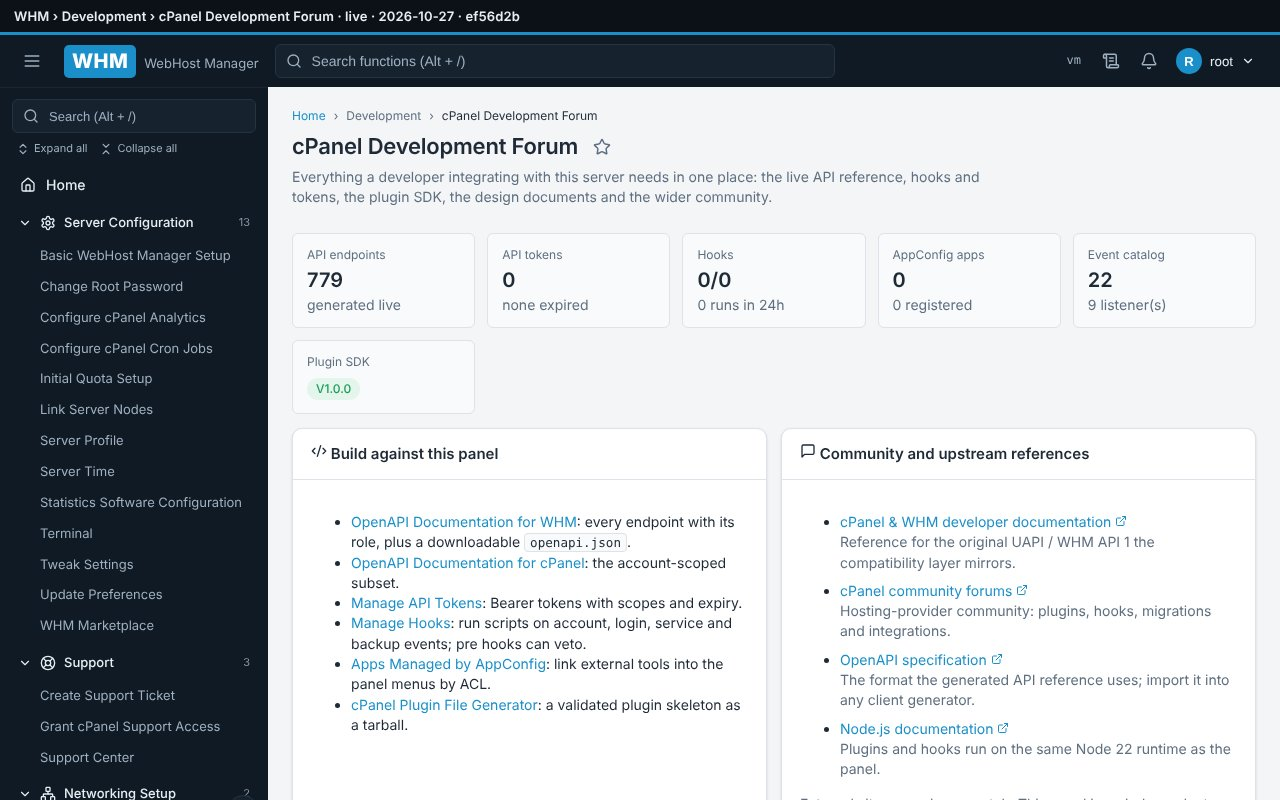
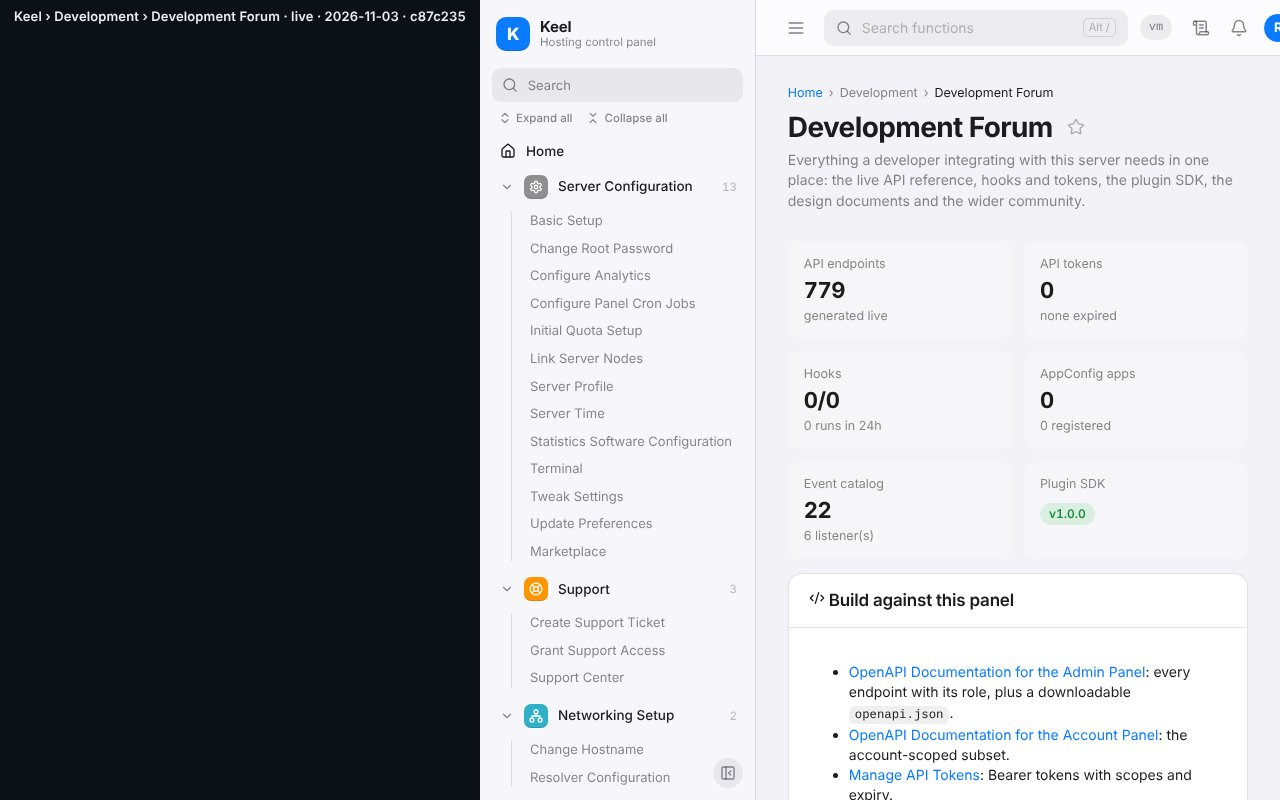
docs(screenshots): refresh all 212 labelled page shots + 17 flow shots on the Keel design system (c87c235)

diff --git a/docs/screenshots/README.md b/docs/screenshots/README.md
@@ -1,6 +1,6 @@
 # Screenshots
 
-Updated 2026-10-27 at commit `ef56d2b`. All images are captured automatically (Playwright) against the built interface served by the API, and each carries a label bar naming the screen, whether it is live or a placeholder, the date and the commit. They are regenerated at every milestone (`e2e/screenshots.sh`).
+Updated 2026-11-03 at commit `c87c235`. All images are captured automatically (Playwright) against the built interface served by the API, and each carries a label bar naming the screen, whether it is live or a placeholder, the date and the commit. They are regenerated at every milestone (`e2e/screenshots.sh`).
 
 - **[Every page →](pages/README.md)** — all 212 function pages grouped by category (212/212 live) plus core pages.
 
@@ -15,7 +15,7 @@ Login → dashboard → creating an account through the form → lists, status p
 <tr><td align="center" valign="top" width="33%"><a href="08-feature-manager.png"><img src="08-feature-manager.png" width="400" alt="Feature Manager"></a><br><sub><b>Feature Manager</b></sub></td><td align="center" valign="top" width="33%"><a href="09-tweak-settings.png"><img src="09-tweak-settings.png" width="400" alt="Tweak Settings"></a><br><sub><b>Tweak Settings</b></sub></td></tr>
 <tr><td align="center" valign="top" width="33%"><a href="10-wp-toolkit-plugin.png"><img src="10-wp-toolkit-plugin.png" width="400" alt="WP Toolkit (bundled plugin page)"></a><br><sub><b>WP Toolkit (bundled plugin page)</b></sub></td><td align="center" valign="top" width="33%"><a href="11-sidebar-search.png"><img src="11-sidebar-search.png" width="400" alt="Sidebar search"></a><br><sub><b>Sidebar search</b></sub></td></tr>
 <tr><td align="center" valign="top" width="33%"><a href="12-top-search.png"><img src="12-top-search.png" width="400" alt="Global search"></a><br><sub><b>Global search</b></sub></td><td align="center" valign="top" width="33%"><a href="13-restart-service.png"><img src="13-restart-service.png" width="400" alt="Restart HTTP Server (Apache)"></a><br><sub><b>Restart HTTP Server (Apache)</b></sub></td></tr>
-<tr><td align="center" valign="top" width="33%"><a href="14-process-manager.png"><img src="14-process-manager.png" width="400" alt="Process Manager"></a><br><sub><b>Process Manager</b></sub></td><td align="center" valign="top" width="33%"><a href="15-license-tab.png"><img src="15-license-tab.png" width="400" alt="Basic Setup — License tab"></a><br><sub><b>Basic Setup — License tab</b></sub></td></tr>
+<tr><td align="center" valign="top" width="33%"><a href="14-process-manager.png"><img src="14-process-manager.png" width="400" alt="Process Manager"></a><br><sub><b>Process Manager</b></sub></td><td align="center" valign="top" width="33%"><a href="15-license-tab.png"><img src="15-license-tab.png" width="400" alt="Basic WebHost Manager Setup — License tab"></a><br><sub><b>Basic WebHost Manager Setup — License tab</b></sub></td></tr>
 <tr><td align="center" valign="top" width="33%"><a href="16-manage-plugins-marketplace.png"><img src="16-manage-plugins-marketplace.png" width="400" alt="Manage Plugins — Marketplace tab"></a><br><sub><b>Manage Plugins — Marketplace tab</b></sub></td><td align="center" valign="top" width="33%"><a href="17-whm-marketplace.png"><img src="17-whm-marketplace.png" width="400" alt="Marketplace"></a><br><sub><b>Marketplace</b></sub></td></tr></table>
 
 ## Regenerate

diff --git a/docs/screenshots/pages/README.md b/docs/screenshots/pages/README.md
@@ -1,6 +1,6 @@
 # Every page
 
-Captured 2026-10-27 at commit `ef56d2b` with `e2e/screenshot-all.cjs` (1280×800). **212 of 212 function pages are live**; the rest show the placeholder for their build phase. Each image carries its label bar. Click any thumbnail for full size.
+Captured 2026-11-03 at commit `c87c235` with `e2e/screenshot-all.cjs` (1280×800). **212 of 212 function pages are live**; the rest show the placeholder for their build phase. Each image carries its label bar. Click any thumbnail for full size.
 
 ## Core pages
 
